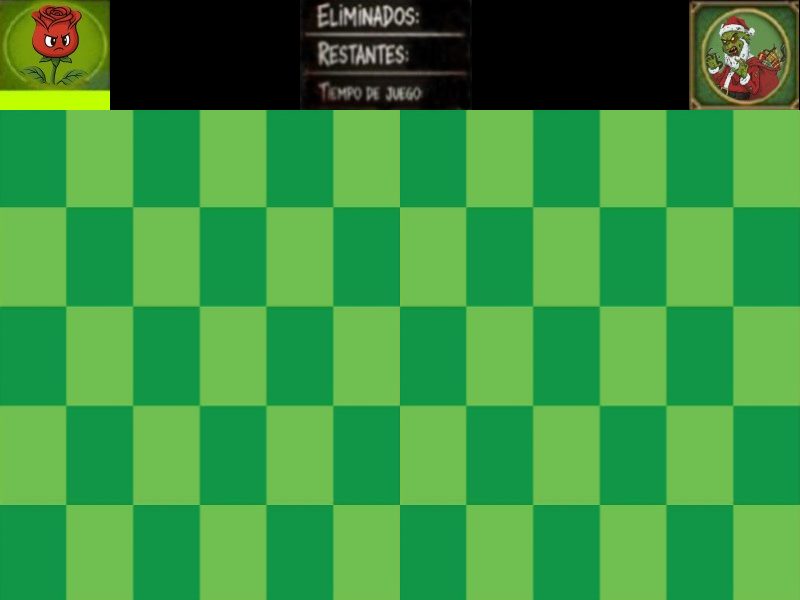
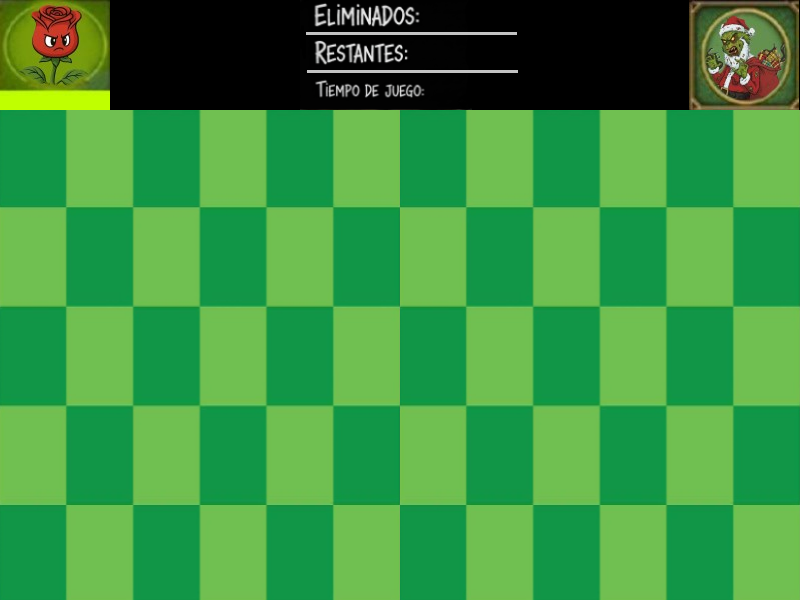
subo un menu de mejor definicion y posiciono mejor el reloj de tiempo de juego

Changed region(s): [[0.375, 0.0, 0.6562, 0.18]]

diff --git a/jacob-hudson-terracciano-rosi-tp-p1/jacob-hudson-terracciano-rosi-tp-p1/src/juego/Juego.java b/jacob-hudson-terracciano-rosi-tp-p1/jacob-hudson-terracciano-rosi-tp-p1/src/juego/Juego.java
@@ -336,7 +336,7 @@ public class Juego extends InterfaceJuego
   	entorno.cambiarFont("Times New Roman", 25, Color.white);
 	entorno.escribirTexto("30", 430, 20); 
 	entorno.cambiarFont("Times New Roman", 25, Color.white);
-	entorno.escribirTexto("15", 420, 60);
+	entorno.escribirTexto("15", 415, 60);
 	
 //reloj
 //calcular tiempo transcurrido en segundos
@@ -352,7 +352,7 @@ public class Juego extends InterfaceJuego
   	
 //mostrar reloj  	
   	entorno.cambiarFont("Times New Roman", 25, Color.white);
-  	entorno.escribirTexto(tiempoFormateado, 428, 100);
+  	entorno.escribirTexto(tiempoFormateado, 433, 100);
   	
   	
   	

diff --git a/jacob-hudson-terracciano-rosi-tp-p1/jacob-hudson-terracciano-rosi-tp-p1/src/juego/Planta.java b/jacob-hudson-terracciano-rosi-tp-p1/jacob-hudson-terracciano-rosi-tp-p1/src/juego/Planta.java
@@ -39,9 +39,9 @@ public class Planta {
 	{
 		e.dibujarImagen(imgRosa, this.x, this.y, 0,this.escala);
 		//para probar el correcto funcionamiento de la seleccion, borrar para la entrega
-		if (rosaSeleccionada) {
-		    e.dibujarRectangulo(this.x, this.y, this.ancho + 10, this.alto + 10, 0, Color.yellow);
-		}
+//		if (rosaSeleccionada) {
+//		    e.dibujarRectangulo(this.x, this.y, this.ancho + 10, this.alto + 10, 0, Color.yellow);
+//		}
 	}
 	
 	public void mover(double dh,double dv) {
